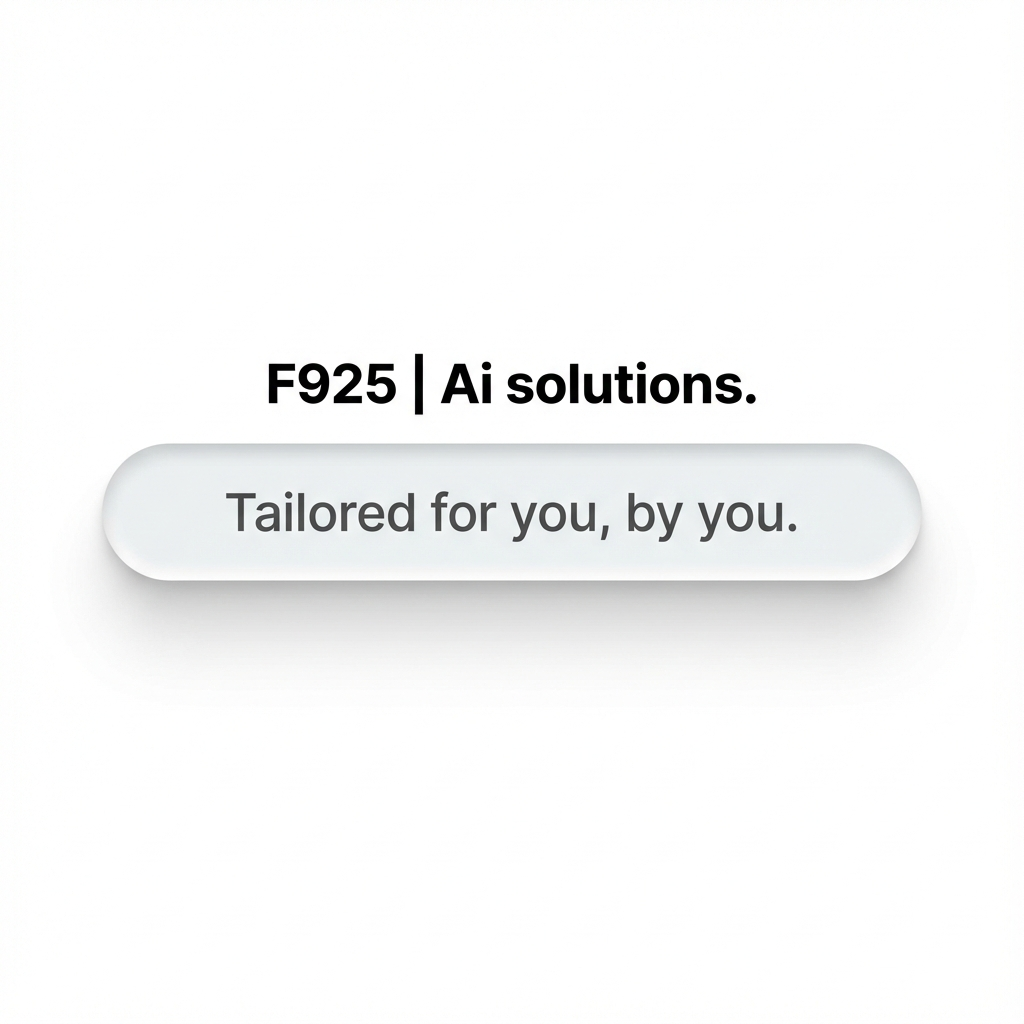
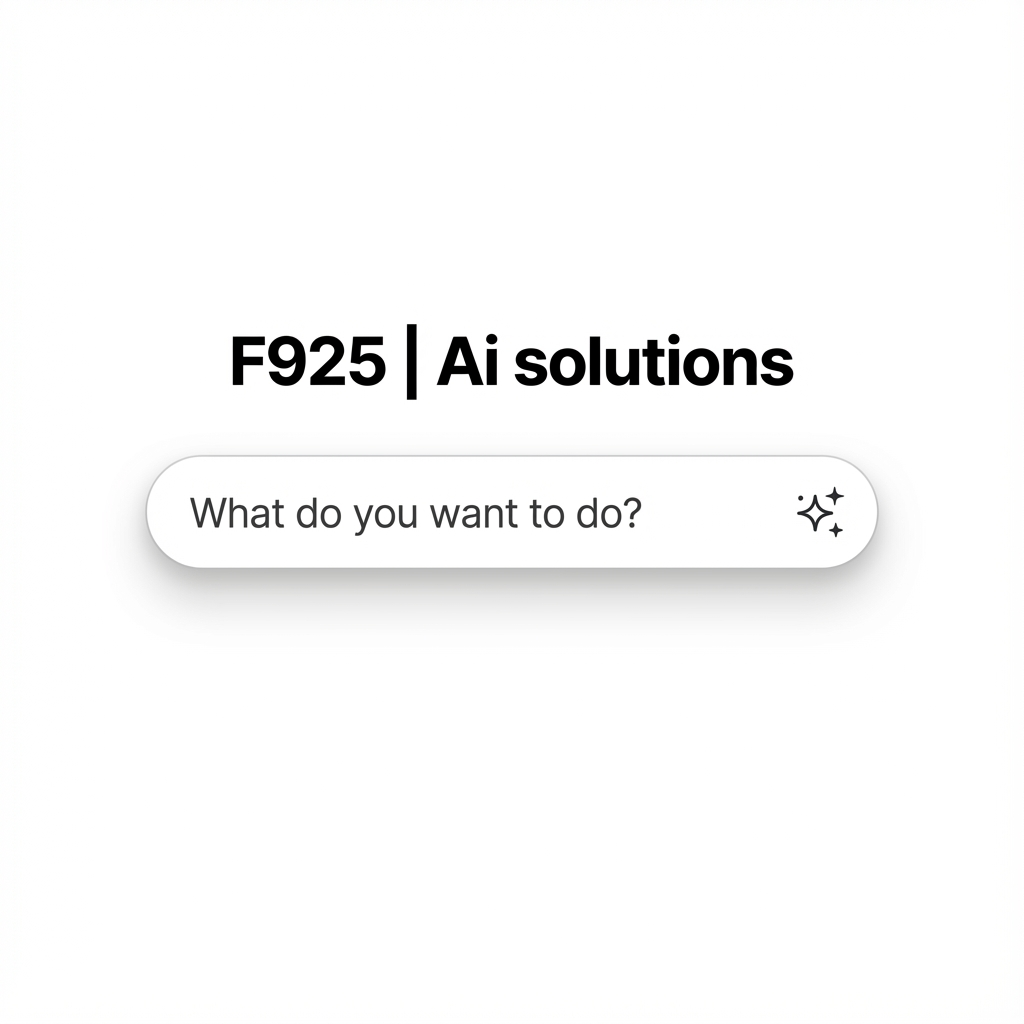
chore: refine og image text and dimensions (ref: log-20260107-og-refinement-v2)

Changed region(s): [[0.0938, 0.3125, 0.9062, 0.625]]

diff --git a/GEMINI--logs.md b/GEMINI--logs.md
@@ -396,6 +396,22 @@ Modify the og image. Add F925 | Ai solutions.
 ## Verification Results
 - `public/og-image.png` updated with the new design.
 
+<a name="log-20260107-og-refinement-v2"></a>
+## [2026-01-07] Refinement: OG Image Text (v2)
+### User Prompt
+the ogimage should be 1200 x 630 pixels. Remember the text: F925 | Ai solutions (input text with a ai icon) What do you want to do?
+
+### Walkthrough
+# Walkthrough - OG Image (v2)
+
+## Summary of Changes
+- **OG Image Updated:** Regenerated to specific 1200x630px guidelines.
+- **Content:** Updated input text to: **"What do you want to do?"** with the "F925 | Ai solutions" header.
+- **Git Sync:** Executed full project sync.
+
+## Verification Results
+- `public/og-image.png` updated.
+
 ### Build Consistency
 Passed `npm run build` without any TypeScript or styling errors.
 

diff --git a/GEMINI.md b/GEMINI.md
@@ -12,6 +12,10 @@ A premium landing page and showcase for "AI That Works in the Real World". Built
 
 ## History
 
+### [2026-01-07] OG Image Refinement (v2) | [log-20260107-og-refinement-v2](./GEMINI--logs.md#log-20260107-og-refinement-v2)
+- Updated OG image text to "What do you want to do?".
+- Enforced 1200x630 dimensions.
+
 ### [2026-01-07] OG Image Branding | [log-20260107-og-update](./GEMINI--logs.md#log-20260107-og-update)
 - Updated Open Graph image with "F925 | Ai solutions." branding.
 - Executed full project git sync.
